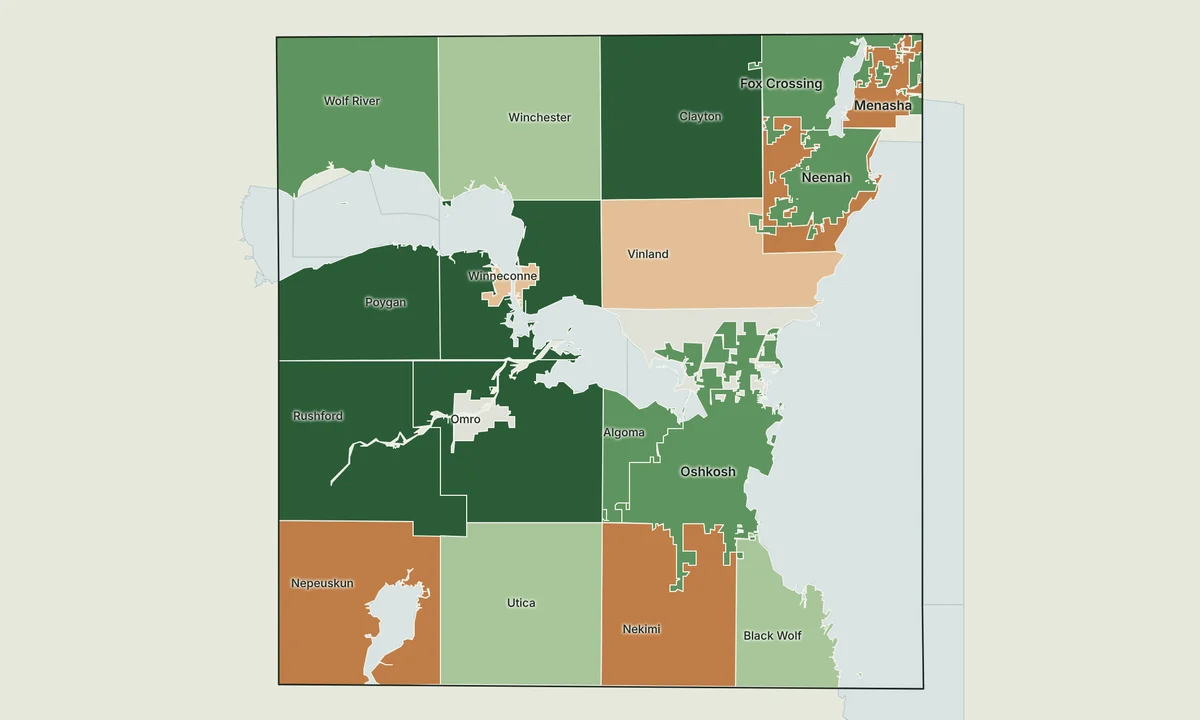
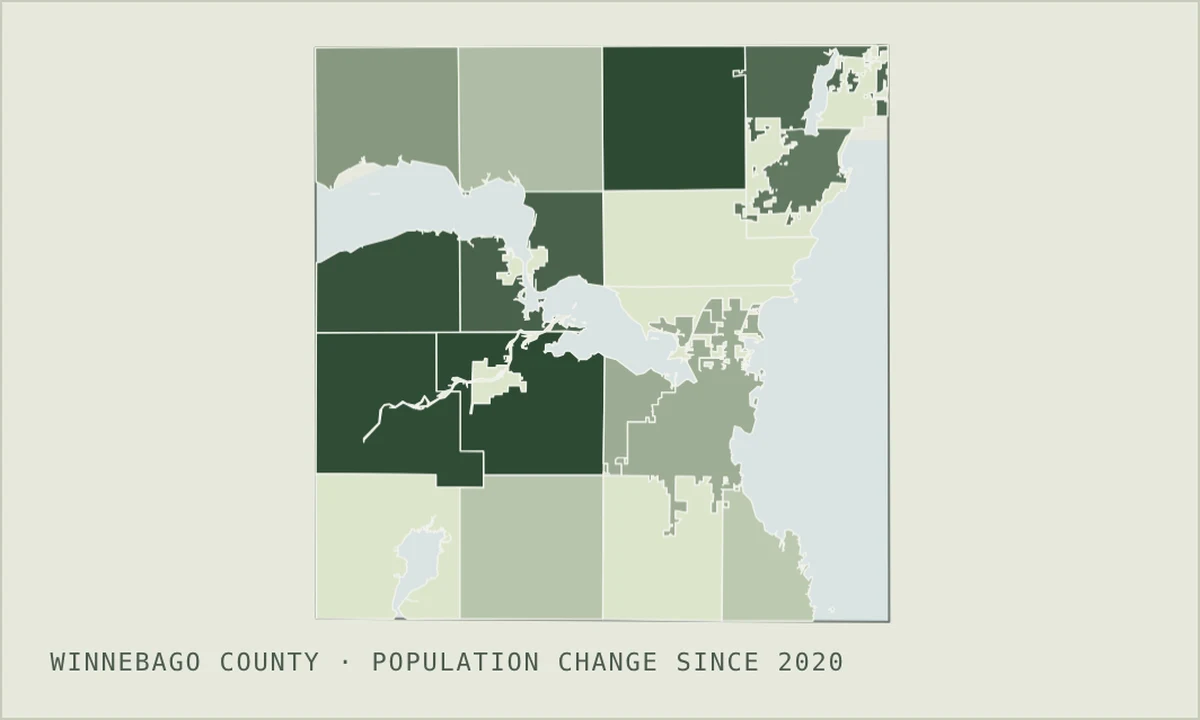
Winnebago card: single-color flat map that tilts into an animated prism map (four measures, decline sinks)
Claude-Session: https://claude.ai/code/session_01Gz5BQT3Z8VP3RNP9rwQrGC

Changed region(s): [[0.0, 0.0, 1.0, 1.0], [0.3083, 0.3972, 0.3392, 0.4278], [0.0, 0.0, 0.0308, 0.0306]]

diff --git a/media/winnebago-card/prism.js b/media/winnebago-card/prism.js
@@ -1,0 +1,227 @@
+/* Winnebago County homepage card: a flat single-color map that tilts to an oblique view, then
+   raises and sinks each municipality by four measures in turn (a prism map), and settles flat again.
+   Plays on hover (mouse) or once when scrolled into view (touch). Static with reduced motion. */
+(function () {
+  'use strict';
+  const fig = document.getElementById('wcard');
+  if (!fig) return;
+  const canvas = fig.querySelector('canvas');
+  const label = fig.querySelector('.pc-label');
+  const ctx = canvas.getContext('2d');
+  const reduceMotion = matchMedia('(prefers-reduced-motion: reduce)').matches;
+  const finePointer = matchMedia('(hover: hover) and (pointer: fine)').matches;
+
+  const LAYERS = [
+    { name: 'Population change since 2020', h: (v) => sgn(v) * Math.min(1.25, Math.sqrt(Math.abs(v) / 0.06)) },
+    { name: 'Projected change, 2020–2050', h: (v) => sgn(v) * Math.min(1.25, Math.sqrt(Math.abs(v) / 0.16)) },
+    { name: 'Residents 65 and older', h: (v) => (v - 0.08) / 0.24 },
+    { name: 'Median household income', h: (v) => (v - 40000) / 94000 },
+  ];
+  const STATIC = { name: 'Winnebago County · population change since 2020', c: (v) => Math.max(0, Math.min(1, v / 0.04)) ** 0.75 };
+  function sgn(v) { return v < 0 ? -1 : 1; }
+
+  let D = null, pieces = [], lakes = [], outline = [];
+  let W = 0, H = 0, dpr = 1, scale = 1, off = [[0, 0], [0, 0]];
+  const TILT = 56 * Math.PI / 180, ROT = 38 * Math.PI / 180, ZMAX = 5.2;   // km of height at h = 1
+
+  // ---------- colors
+  function hex(c) { c = c.trim(); if (c[0] === '#') { if (c.length === 4) c = '#' + c[1] + c[1] + c[2] + c[2] + c[3] + c[3]; return [1, 3, 5].map(i => parseInt(c.slice(i, i + 2), 16)); } const m = c.match(/\d+/g); return m ? m.slice(0, 3).map(Number) : [0, 0, 0]; }
+  let P = {};
+  function palette() {
+    const cs = getComputedStyle(fig);
+    const v = (n) => hex(cs.getPropertyValue(n));
+    P = { gLo: v('--pc-green-lo'), gHi: v('--pc-green-hi'), rLo: v('--pc-red-lo'), rHi: v('--pc-red-hi'), lake: v('--pc-lake'), edge: v('--pc-edge'), ink: v('--ink') };
+  }
+  const mix = (a, b, t) => [a[0] + (b[0] - a[0]) * t, a[1] + (b[1] - a[1]) * t, a[2] + (b[2] - a[2]) * t];
+  const rgb = (c, k = 1) => `rgb(${Math.round(c[0] * k)},${Math.round(c[1] * k)},${Math.round(c[2] * k)})`;
+
+  // ---------- states: each is { tilt, h: [], c: [] } (c = signed color position: + green, - red)
+  function stateStatic(tilt) { return { tilt, h: D.munis.map(() => 0), c: D.munis.map(m => STATIC.c(m.v[0])), red: D.munis.map(() => 0), lab: -1 }; }
+  function stateLayer(i) {
+    const L = LAYERS[i];
+    const hs = D.munis.map(m => L.h(m.v[i]));
+    const max = Math.max(...hs.map(Math.abs));
+    return { tilt: 1, h: hs, c: hs.map(h => Math.min(1, Math.abs(h) / max) ** 0.8), red: hs.map(h => h < 0 ? 1 : 0), lab: i };
+  }
+  function lerpState(a, b, t) {
+    return { tilt: a.tilt + (b.tilt - a.tilt) * t, h: a.h.map((x, i) => x + (b.h[i] - x) * t), c: a.c.map((x, i) => x + (b.c[i] - x) * t), red: a.red.map((x, i) => x + (b.red[i] - x) * t), lab: t < 0.5 ? a.lab : b.lab };
+  }
+  const ease = (t) => t < 0.5 ? 4 * t * t * t : 1 - Math.pow(-2 * t + 2, 3) / 2;
+
+  // ---------- projection
+  function view(tilt) {
+    const a = ROT * tilt, ti = TILT * tilt;
+    const ca = Math.cos(a), sa = Math.sin(a), ct = Math.cos(ti), st = Math.sin(ti);
+    const ox = off[0][0] + (off[1][0] - off[0][0]) * tilt, oy = off[0][1] + (off[1][1] - off[0][1]) * tilt;
+    return { ca, sa, ct, st, ox, oy };
+  }
+  function proj(V, x, y, z) {
+    const xr = x * V.ca - y * V.sa, yr = x * V.sa + y * V.ca;
+    return [W / 2 + (xr - V.ox) * scale, H * 0.46 - (yr * V.ct + z * V.st - V.oy) * scale, yr];
+  }
+
+  function prepare() {
+    pieces = [];
+    D.munis.forEach((m, mi) => m.parts.forEach((rings) => pieces.push({ mi, rings })));
+    lakes = D.lakes; outline = D.outline;
+  }
+
+  function fit() {
+    const r = fig.getBoundingClientRect();
+    dpr = Math.min(2, window.devicePixelRatio || 1);
+    W = r.width; H = r.height;
+    canvas.width = Math.round(W * dpr); canvas.height = Math.round(H * dpr);
+    canvas.style.width = W + 'px'; canvas.style.height = H + 'px';
+    // scale so both the flat and the tilted view fit
+    let s = Infinity;
+    for (const t of [0, 1]) {
+      const a = ROT * t, ti = TILT * t;
+      const V = { ca: Math.cos(a), sa: Math.sin(a), ct: Math.cos(ti), st: Math.sin(ti) };
+      let minx = Infinity, maxx = -Infinity, miny = Infinity, maxy = -Infinity;
+      outline.forEach(pt => pt[0].forEach(([x, y]) => { const xr = x * V.ca - y * V.sa, yr = x * V.sa + y * V.ca; minx = Math.min(minx, xr); maxx = Math.max(maxx, xr); miny = Math.min(miny, yr * V.ct); maxy = Math.max(maxy, yr * V.ct + (t ? ZMAX * 0.9 * V.st : 0)); }));
+      if (t) { miny -= ZMAX * 0.35 * V.st; }
+      off[t] = [(minx + maxx) / 2, (miny + maxy) / 2];
+      const pad = t ? 0.9 : 0.8;
+      s = Math.min(s, (W * pad) / (maxx - minx), (H * pad) / (maxy - miny));
+    }
+    scale = s;
+  }
+
+  function ringPath(V, ring, z) { ring.forEach(([x, y], i) => { const p = proj(V, x, y, z); i ? ctx.lineTo(p[0], p[1]) : ctx.moveTo(p[0], p[1]); }); ctx.closePath(); }
+
+  function colorFor(S, mi) {
+    const t = S.c[mi], r = S.red[mi];
+    const g = mix(P.gLo, P.gHi, t), rd = mix(P.rLo, P.rHi, t);
+    return mix(g, rd, r);
+  }
+
+  function draw(S) {
+    if (!D) return;
+    ctx.setTransform(dpr, 0, 0, dpr, 0, 0);
+    ctx.clearRect(0, 0, W, H);
+    const V = view(S.tilt);
+    const light = [-0.45, -0.75];   // light from the viewer's lower left (in rotated plane coords)
+    ctx.lineJoin = 'round';
+
+    // lakes on the plane
+    ctx.fillStyle = rgb(P.lake);
+    ctx.beginPath(); lakes.forEach(pt => pt.forEach(r => ringPath(V, r, 0))); ctx.fill('evenodd');
+
+    // order: farthest nearest-point first
+    const items = pieces.map(pc => {
+      let near = Infinity;
+      pc.rings[0].forEach(([x, y]) => { near = Math.min(near, x * V.sa + y * V.ca); });
+      return { pc, near, z: S.h[pc.mi] * ZMAX };
+    });
+    items.sort((a, b) => b.near - a.near);
+
+    const wallsOf = (pc, z, wantFront) => {
+      const out = [];
+      pc.rings.forEach(r => {
+        for (let i = 0; i < r.length; i++) {
+          const [x1, y1] = r[i], [x2, y2] = r[(i + 1) % r.length];
+          const nx = (y2 - y1), ny = -(x2 - x1);       // outward normal (exterior CCW, holes CW)
+          const nyr = nx * V.sa + ny * V.ca, nxr = nx * V.ca - ny * V.sa;
+          const front = nyr < 0;
+          if (front !== wantFront) continue;
+          const len = Math.hypot(nxr, nyr) || 1;
+          const sh = 0.62 + 0.3 * Math.max(0, (nxr * light[0] + nyr * light[1]) / len);
+          out.push({ x1, y1, x2, y2, sh, d: ((y1 + y2) / 2) * V.ca + ((x1 + x2) / 2) * V.sa });
+        }
+      });
+      return out.sort((a, b) => b.d - a.d);
+    };
+    const quad = (w, z0, z1) => { const a = proj(V, w.x1, w.y1, z0), b = proj(V, w.x2, w.y2, z0), c = proj(V, w.x2, w.y2, z1), d = proj(V, w.x1, w.y1, z1); ctx.beginPath(); ctx.moveTo(a[0], a[1]); ctx.lineTo(b[0], b[1]); ctx.lineTo(c[0], c[1]); ctx.lineTo(d[0], d[1]); ctx.closePath(); ctx.fill(); ctx.stroke(); };
+
+    // 1. sunken municipalities: a pit cut into the invisible plane, clipped to the outline at z = 0
+    items.filter(it => it.z < -0.01).forEach(it => {
+      const col = colorFor(S, it.pc.mi);
+      ctx.save();
+      ctx.beginPath(); it.pc.rings.forEach(r => ringPath(V, r, 0)); ctx.clip('evenodd');
+      ctx.lineWidth = 0.5;
+      wallsOf(it.pc, it.z, false).forEach(w => { ctx.fillStyle = rgb(col, 0.68 + 0.18 * w.sh); ctx.strokeStyle = ctx.fillStyle; quad(w, it.z, 0); });
+      ctx.fillStyle = rgb(col); ctx.beginPath(); it.pc.rings.forEach(r => ringPath(V, r, it.z)); ctx.fill('evenodd');
+      ctx.restore();
+      ctx.strokeStyle = rgb(P.edge); ctx.lineWidth = 0.7; ctx.beginPath(); it.pc.rings.forEach(r => ringPath(V, r, 0)); ctx.stroke();
+    });
+
+    // county outline on the plane
+    ctx.strokeStyle = rgb(P.ink); ctx.globalAlpha = 0.55; ctx.lineWidth = 1;
+    ctx.beginPath(); outline.forEach(pt => ringPath(V, pt[0], 0)); ctx.stroke(); ctx.globalAlpha = 1;
+
+    // 2. flat and raised municipalities
+    items.filter(it => it.z >= -0.01).forEach(it => {
+      const col = colorFor(S, it.pc.mi), z = Math.max(0, it.z);
+      if (z > 0.02) {
+        ctx.lineWidth = 0.5;
+        wallsOf(it.pc, z, true).forEach(w => { ctx.fillStyle = rgb(col, w.sh); ctx.strokeStyle = ctx.fillStyle; quad(w, 0, z); });
+      }
+      ctx.fillStyle = rgb(col);
+      ctx.beginPath(); it.pc.rings.forEach(r => ringPath(V, r, z)); ctx.fill('evenodd');
+      ctx.strokeStyle = rgb(P.edge); ctx.lineWidth = 0.7; ctx.stroke();
+    });
+
+  }
+
+  // ---------- timeline
+  let keys = null, anim = null, cur = null;
+  function buildKeys() {
+    const S0 = stateStatic(0), S1 = stateStatic(1);
+    const L = LAYERS.map((_, i) => stateLayer(i));
+    keys = [[0, S0], [800, S1], [1650, L[0]], [3050, L[0]], [3900, L[1]], [5300, L[1]], [6150, L[2]], [7550, L[2]], [8400, L[3]], [9800, L[3]], [10650, S1], [11450, S0]];
+  }
+  function stateAt(t) {
+    for (let i = 1; i < keys.length; i++) {
+      if (t <= keys[i][0]) { const [t0, a] = keys[i - 1], [t1, b] = keys[i]; return lerpState(a, b, ease((t - t0) / (t1 - t0))); }
+    }
+    return keys[keys.length - 1][1];
+  }
+  function setLabel(i) {
+    const txt = i < 0 ? STATIC.name : LAYERS[i].name + (i < 2 ? ' · decline sinks' : '');
+    if (label.dataset.i === String(i)) return;
+    label.dataset.i = String(i);
+    label.style.opacity = 0;
+    setTimeout(() => { label.textContent = txt; label.style.opacity = 1; }, 180);
+  }
+  function frame(now) {
+    if (!anim) return;
+    const t = now - anim.start;
+    let S;
+    if (anim.mode === 'play') {
+      S = stateAt(t);
+      if (t >= keys[keys.length - 1][0]) { anim = null; }
+    } else {
+      const k = Math.min(1, t / 750); S = lerpState(anim.from, keys[0][1], ease(k));
+      if (k >= 1) anim = null;
+    }
+    cur = S; draw(S); setLabel(S.lab);
+    if (anim) requestAnimationFrame(frame);
+  }
+  function play() { if (!D || (anim && anim.mode === 'play')) return; anim = { mode: 'play', start: performance.now() }; requestAnimationFrame(frame); }
+  function settle() { if (!anim || anim.mode !== 'play') return; anim = { mode: 'settle', start: performance.now(), from: cur }; requestAnimationFrame(frame); }
+
+  function redraw() { if (!D) return; fit(); draw(cur || keys[0][1]); }
+
+  function load() {
+    fetch('media/winnebago-card/card.json').then(r => r.json()).then(d => {
+      D = d; prepare(); palette(); buildKeys(); fit(); cur = keys[0][1]; draw(cur);
+      fig.classList.add('ready'); label.textContent = STATIC.name; label.dataset.i = '-1';
+      if (reduceMotion) return;
+      if (finePointer) { fig.addEventListener('mouseenter', play); fig.addEventListener('mouseleave', settle); }
+      else if ('IntersectionObserver' in window) {
+        const io = new IntersectionObserver(es => es.forEach(e => { if (e.isIntersecting) { setTimeout(play, 300); io.disconnect(); } }), { threshold: 0.7 });
+        io.observe(fig);
+      }
+    }).catch(() => {});
+  }
+  if ('IntersectionObserver' in window) {
+    const lio = new IntersectionObserver(es => es.forEach(e => { if (e.isIntersecting) { load(); lio.disconnect(); } }), { rootMargin: '400px' });
+    lio.observe(fig);
+  } else load();
+
+  let rt; addEventListener('resize', () => { clearTimeout(rt); rt = setTimeout(redraw, 120); });
+  const scheme = () => { palette(); redraw(); };
+  matchMedia('(prefers-color-scheme: dark)').addEventListener('change', scheme);
+  new MutationObserver(scheme).observe(document.documentElement, { attributes: true, attributeFilter: ['data-theme'] });
+  window.__wcard = { play, stateAt: (t) => { const S = stateAt(t); draw(S); setLabel(S.lab); return S; } };   // for testing
+})();

diff --git a/index.html b/index.html
@@ -148,6 +148,14 @@ section { padding-block: clamp(4rem, 9vw, 6.5rem); border-bottom: 1px solid var(
 .case-link:hover { text-decoration: underline; }
 .plate h3 a { text-decoration: none; }
 /* Pollinator card: triptych at rest; on hover 22 predictor sheets stack into the lupine model */
+/* Winnebago prism card */
+.prism-card { --pc-green-lo: #dde5cc; --pc-green-hi: #2e4a34; --pc-red-lo: #ebdcd6; --pc-red-hi: #b3837a; --pc-lake: #d9e3e3; --pc-edge: #f1f2ec; }
+@media (prefers-color-scheme: dark) { :root:not([data-theme="light"]) .prism-card { --pc-green-lo: #2b3a2e; --pc-green-hi: #a3c99a; --pc-red-lo: #382d2b; --pc-red-hi: #977168; --pc-lake: #1d2a2c; --pc-edge: #121813; } }
+:root[data-theme="dark"] .prism-card { --pc-green-lo: #2b3a2e; --pc-green-hi: #a3c99a; --pc-red-lo: #382d2b; --pc-red-hi: #977168; --pc-lake: #1d2a2c; --pc-edge: #121813; }
+.prism-card img, .prism-card canvas { position: absolute; inset: 0; width: 100%; height: 100%; object-fit: cover; display: block; }
+.prism-card canvas { opacity: 0; transition: opacity .3s ease; }
+.prism-card.ready canvas { opacity: 1; } .prism-card.ready img { visibility: hidden; }
+.pc-label { position: absolute; left: 4%; bottom: 5%; font-size: clamp(9px, 1.6vw, 11px); transition: opacity .18s ease; pointer-events: none; }
 .layer-card { --mc-asc: url(media/pollinator-card/Asclepias_incarnata_light.webp); --mc-lup: url(media/pollinator-card/Lupinus_perennis_light.webp); --mc-lys: url(media/pollinator-card/Lysimachia_ciliata_light.webp); }
 @media (prefers-color-scheme: dark) { :root:not([data-theme="light"]) .layer-card { --mc-asc: url(media/pollinator-card/Asclepias_incarnata_dark.webp); --mc-lup: url(media/pollinator-card/Lupinus_perennis_dark.webp); --mc-lys: url(media/pollinator-card/Lysimachia_ciliata_dark.webp); } }
 :root[data-theme="dark"] .layer-card { --mc-asc: url(media/pollinator-card/Asclepias_incarnata_dark.webp); --mc-lup: url(media/pollinator-card/Lupinus_perennis_dark.webp); --mc-lys: url(media/pollinator-card/Lysimachia_ciliata_dark.webp); }
@@ -393,8 +401,10 @@ footer .wrap { display: flex; flex-wrap: wrap; gap: 1.5rem 3rem; justify-content
 
         <!-- Winnebago County -->
         <article class="plate">
-          <figure>
-            <img src="media/winnebago-card.webp" alt="Map of Winnebago County's 22 municipalities colored by population change since 2020, brown for decline and green for growth" width="1200" height="720" loading="lazy" style="position:absolute;inset:0;width:100%;height:100%;object-fit:cover">
+          <figure class="prism-card" id="wcard" aria-label="Map of Winnebago County's 22 municipalities shaded by population growth since 2020. On hover the map tilts and each municipality rises or sinks by population change, projected change to 2050, share of residents 65 and older, and median household income.">
+            <img src="media/winnebago-card.webp" alt="" width="1200" height="720" loading="lazy">
+            <canvas aria-hidden="true"></canvas>
+            <span class="pc-label label" aria-hidden="true">Winnebago County · population change since 2020</span>
           </figure>
           <div class="collar"><span class="label">Planning analysis · Web map</span><span class="status live">Live</span></div>
           <h3><a href="winnebago.html">Winnebago County Community Profile</a></h3>
@@ -669,6 +679,7 @@ footer .wrap { display: flex; flex-wrap: wrap; gap: 1.5rem 3rem; justify-content
   });
 })();
 </script>
+<script src="media/winnebago-card/prism.js" defer></script>
 
 </body>
 </html>

diff --git a/projects/winnebago/card_data.py b/projects/winnebago/card_data.py
@@ -1,0 +1,41 @@
+"""Compact geometry + the four card measures for the homepage prism-map card.
+Usage: python3 card_data.py ../../data/winnebago ../../media/winnebago-card/card.json"""
+import json, math, sys
+from shapely.geometry import shape
+from shapely.geometry.polygon import orient
+
+D, OUT = sys.argv[1], sys.argv[2]
+G = json.load(open(f"{D}/municipalities.geojson")); C = json.load(open(f"{D}/context.geojson"))
+outline = next(f for f in C["features"] if f["properties"]["name"] == "outline")
+b = shape(outline["geometry"]).bounds
+lon0, lat0 = (b[0] + b[2]) / 2, (b[1] + b[3]) / 2
+kx, ky = 111.32 * math.cos(math.radians(lat0)), 110.57
+
+
+def rings(geom, tol):
+    out = []
+    g = shape(geom).buffer(0).simplify(tol, preserve_topology=True)
+    for p in getattr(g, "geoms", [g]):
+        if p.area < 2e-6:
+            continue
+        p = orient(p, 1.0)
+        rr = [p.exterior] + list(p.interiors)
+        out.append([[[round((x - lon0) * kx, 2), round((y - lat0) * ky, 2)] for x, y in list(r.coords)[:-1]] for r in rr if len(r.coords) > 3])
+    return out
+
+
+munis = []
+for f in G["features"]:
+    p = f["properties"]
+    munis.append(dict(n=p["short"], t=p["type"], v=[round(p["pct20_26"], 4), round(p["pct20_50"], 4), round(p["pct65"], 4), round(p["med_income"])],
+                      parts=rings(f["geometry"], 0.0007)))
+lakes = []
+from shapely.geometry import mapping
+county = shape(outline["geometry"]).buffer(0)
+for f in C["features"]:
+    if f["properties"]["name"] != "outline":
+        g = shape(f["geometry"]).buffer(0).intersection(county)
+        if not g.is_empty:
+            lakes += rings(mapping(g), 0.0009)
+json.dump(dict(munis=munis, lakes=lakes, outline=rings(outline["geometry"], 0.0009)), open(OUT, "w"), separators=(",", ":"))
+import os; print(os.path.getsize(OUT), "bytes", sum(len(r) for m in munis for pt in m["parts"] for r in pt), "vertices")
